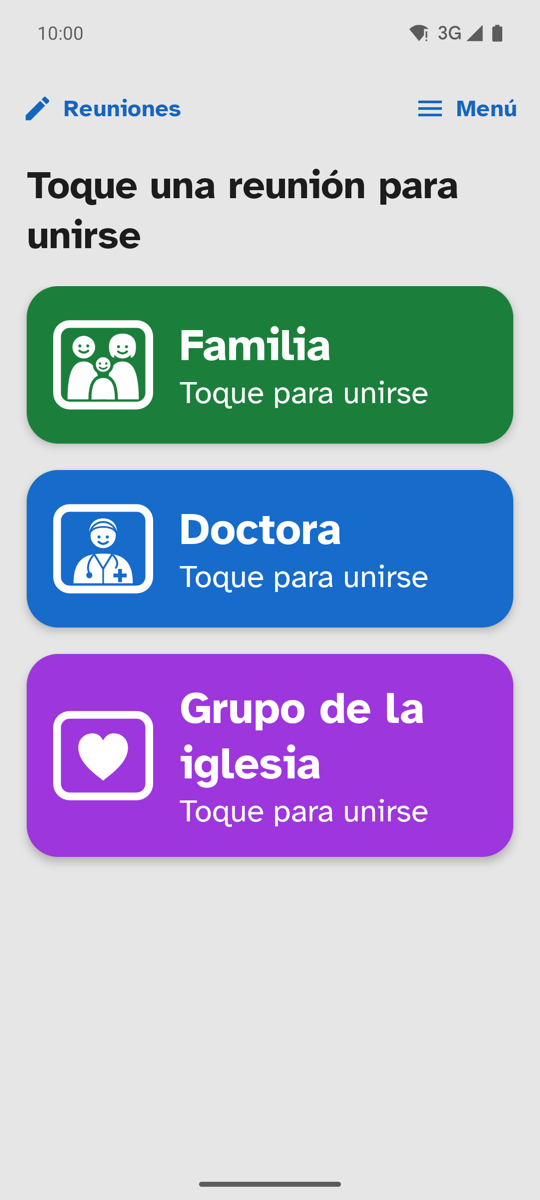
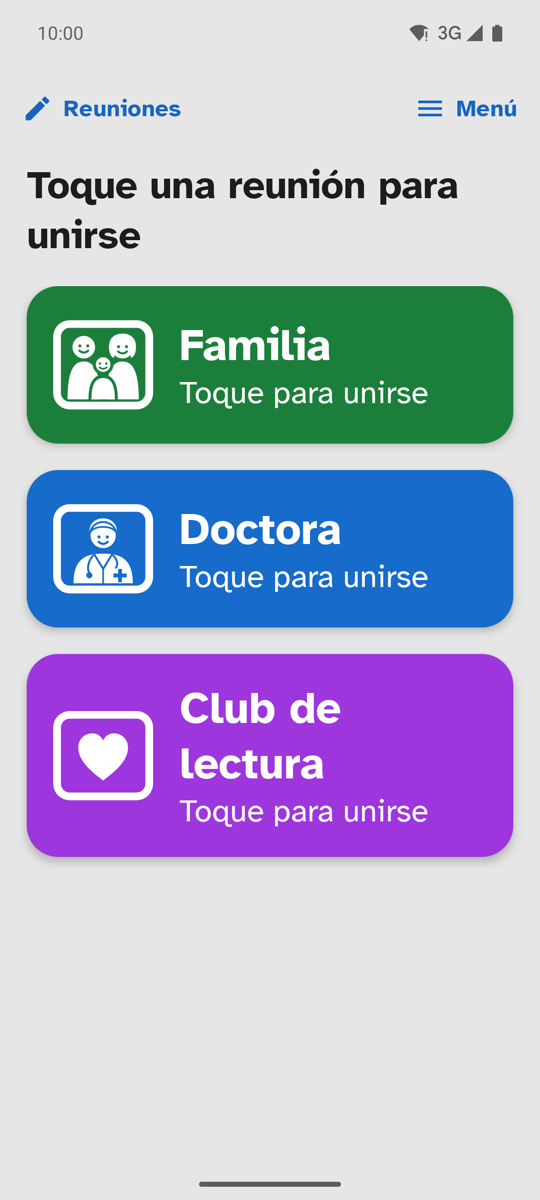
README: capturas actualizadas y sección sobre Google Play

Changed region(s): [[0.3259, 0.555, 0.6815, 0.6783], [0.7111, 0.555, 0.8, 0.6167]]

diff --git a/README.md b/README.md
@@ -36,6 +36,15 @@ Hice Conéctame para un amigo mayor. Mi amigo no siempre tiene a alguien que le 
 sus citas médicas o a otras de sus reuniones sociales. Así que hice esta app para guardar
 todas sus reuniones, pueda unirse con un toque y logre un poco de independencia.
 
+Hoy la app ya está instalada en su teléfono, y con eso cumplió su objetivo. Comparto el código para
+que cualquiera pueda usarla, aprender de ella o adaptarla a quien la necesite.
+
+### ¿Por qué no está en Google Play?
+
+Publicarla requiere una cuenta de desarrollador de pago y un periodo de prueba cerrado con al menos
+12 personas durante 14 días. Como la app ya cumple su propósito, por ahora no la he publicado.
+Puede que lo haga más adelante.
+
 ## Funciones
 
 - **Botones de reunión** grandes, con nombre, color e imagen (cámara, familia, médico, señor de
